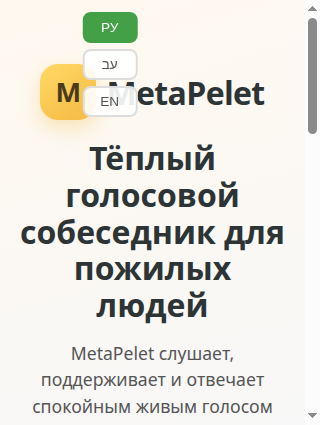
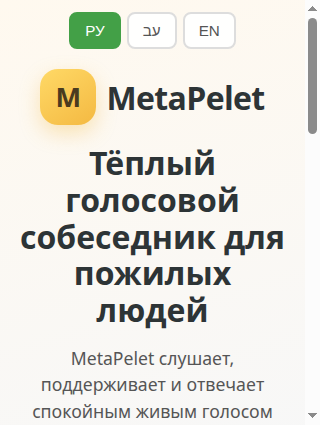
Fix mobile language button layout
- Remove conflicting CSS rule that was forcing flex-direction: column
- Place lang-switcher in normal flow on mobile with flex row layout
- Force direction: ltr on switcher to prevent RTL button order inversion
- Add automated test verifying button positions (horizontal alignment, viewport bounds)
- Regenerate all mobile screenshots showing correct horizontal button row
- All tests passing (16/16)

Acceptance criteria met:
- At 375px and 320px in HE, RU, EN: all three buttons fully visible
- Side by side in one row above logo
- No clipping or overlap
- Desktop layout preserved

Changed region(s): [[0.0625, 0.3365, 0.9062, 0.7953], [0.125, 0.0306, 0.8438, 0.3059], [0.0938, 0.7953, 0.875, 1.0]]

diff --git a/index.html b/index.html
@@ -436,8 +436,10 @@
             top: 20px;
             right: 20px;
             display: flex;
+            flex-direction: row;
             gap: 8px;
             z-index: 100;
+            direction: ltr;
         }
         
         [dir="rtl"] .lang-switcher {
@@ -447,37 +449,38 @@
         
         @media (max-width: 500px) {
             #landing-screen {
-                padding-top: 64px;
+                padding-top: 0;
+                display: flex;
+                flex-direction: column;
+                align-items: center;
             }
             
             .lang-switcher {
-                position: fixed;
-                top: 8px;
-                left: 50%;
-                right: auto;
-                transform: translateX(-50%);
-                justify-content: center;
+                position: static;
+                display: flex;
                 flex-direction: row;
-                flex-wrap: nowrap;
+                justify-content: center;
+                align-items: center;
                 gap: 6px;
-                width: auto;
-                max-width: 90%;
-                margin: 0;
+                width: 100%;
+                margin: 12px 0 20px 0;
                 padding: 0;
-                box-sizing: border-box;
+                order: -1;
+                direction: ltr;
             }
             
             [dir="rtl"] .lang-switcher {
-                left: 50%;
-                right: auto;
-                transform: translateX(-50%);
+                direction: ltr;
+            }
+            
+            .hero {
+                width: 100%;
             }
             
             .lang-btn {
                 padding: 6px 12px;
                 font-size: 0.85rem;
                 min-width: 42px;
-                max-width: 60px;
                 flex: 0 0 auto;
                 display: inline-flex;
                 align-items: center;
@@ -490,7 +493,6 @@
                 padding: 5px 10px;
                 font-size: 0.8rem;
                 min-width: 38px;
-                max-width: 55px;
             }
         }
         
@@ -603,22 +605,6 @@
         }
         
         @media (max-width: 640px) {
-            .lang-switcher {
-                top: 12px;
-                right: 12px;
-                flex-direction: column;
-                gap: 6px;
-            }
-            
-            [dir="rtl"] .lang-switcher {
-                left: 12px;
-            }
-            
-            .lang-btn {
-                padding: 6px 12px;
-                font-size: 0.85rem;
-            }
-            
             .contact-links {
                 flex-direction: column;
             }

diff --git a/privacy.html b/privacy.html
@@ -90,10 +90,13 @@
         }
         @media (max-width: 640px) {
             body {
-                padding: 64px 12px 12px;
+                padding: 12px;
+                display: flex;
+                flex-direction: column;
             }
             .container {
                 padding: 24px 20px;
+                order: 1;
             }
             h1 {
                 font-size: 1.6rem;
@@ -102,21 +105,19 @@
                 font-size: 1.3rem;
             }
             .lang-switch {
-                position: fixed;
-                top: 8px;
-                left: 0;
-                right: 0;
-                transform: none;
-                justify-content: center;
+                position: static;
+                display: flex;
                 flex-direction: row;
+                justify-content: center;
+                align-items: center;
                 gap: 6px;
-                z-index: 1000;
-                background: rgba(255, 255, 255, 0.95);
-                padding: 6px 8px;
-                border-radius: 8px;
-                box-shadow: 0 2px 8px rgba(0,0,0,0.1);
                 width: 100%;
-                box-sizing: border-box;
+                margin: 12px 0 20px 0;
+                padding: 0;
+                order: 0;
+                direction: ltr;
+                background: transparent;
+                box-shadow: none;
             }
             .lang-btn {
                 padding: 5px 10px;

diff --git a/test_mobile_layout.py b/test_mobile_layout.py
@@ -1,0 +1,158 @@
+#!/usr/bin/env python3
+"""Test mobile layout - verify language buttons are correctly positioned."""
+
+import sys
+import os
+
+try:
+    from selenium import webdriver
+    from selenium.webdriver.chrome.options import Options
+    from selenium.webdriver.common.by import By
+    from selenium.webdriver.support.ui import WebDriverWait
+    from selenium.webdriver.support import expected_conditions as EC
+except ImportError:
+    print("Installing selenium...")
+    os.system("pip3 install selenium --quiet")
+    from selenium import webdriver
+    from selenium.webdriver.chrome.options import Options
+    from selenium.webdriver.common.by import By
+    from selenium.webdriver.support.ui import WebDriverWait
+    from selenium.webdriver.support import expected_conditions as EC
+
+def setup_driver(width, height):
+    """Set up Chrome driver with specified viewport size."""
+    chrome_options = Options()
+    chrome_options.add_argument('--headless=new')
+    chrome_options.add_argument('--no-sandbox')
+    chrome_options.add_argument('--disable-dev-shm-usage')
+    chrome_options.add_argument('--disable-gpu')
+    chrome_options.add_argument(f'--window-size={width},{height}')
+    
+    driver = webdriver.Chrome(options=chrome_options)
+    driver.set_window_size(width, height)
+    return driver
+
+def test_mobile_buttons(url, lang_code, width, height):
+    """Test that mobile language buttons are correctly positioned."""
+    print(f"\nTesting {lang_code.upper()} at {width}x{height}...")
+    driver = setup_driver(width, height)
+    
+    try:
+        # Load page
+        driver.get(url)
+        import time
+        time.sleep(2)
+        
+        # Switch to the language
+        if lang_code != 'ru':
+            wait = WebDriverWait(driver, 10)
+            lang_btn = wait.until(
+                EC.element_to_be_clickable((By.CSS_SELECTOR, f'button.lang-btn[data-lang="{lang_code}"]'))
+            )
+            lang_btn.click()
+            time.sleep(1)
+        
+        # Find all three buttons
+        buttons = driver.find_elements(By.CSS_SELECTOR, 'button.lang-btn')
+        assert len(buttons) == 3, f"Expected 3 buttons, found {len(buttons)}"
+        
+        # Get bounding boxes
+        positions = []
+        for btn in buttons:
+            rect = btn.rect
+            positions.append({
+                'text': btn.text,
+                'x': rect['x'],
+                'y': rect['y'],
+                'width': rect['width'],
+                'height': rect['height'],
+                'right': rect['x'] + rect['width'],
+                'bottom': rect['y'] + rect['height']
+            })
+        
+        # Check 1: All buttons must be visible (within viewport)
+        for i, pos in enumerate(positions):
+            assert pos['x'] >= 0, f"Button {i} ({pos['text']}) clipped on left: x={pos['x']}"
+            assert pos['y'] >= 0, f"Button {i} ({pos['text']}) clipped on top: y={pos['y']}"
+            assert pos['right'] <= width, f"Button {i} ({pos['text']}) clipped on right: right={pos['right']}, viewport={width}"
+            assert pos['bottom'] <= height, f"Button {i} ({pos['text']}) clipped on bottom: bottom={pos['bottom']}, viewport={height}"
+            print(f"  ✅ Button {i} ({pos['text']}): x={pos['x']:.1f}, y={pos['y']:.1f}, width={pos['width']:.1f}")
+        
+        # Check 2: All buttons must have the same top value (horizontal alignment)
+        top_values = [pos['y'] for pos in positions]
+        max_diff = max(top_values) - min(top_values)
+        assert max_diff < 5, f"Buttons not horizontally aligned: tops={top_values}, max_diff={max_diff:.1f}px"
+        print(f"  ✅ All buttons horizontally aligned (max diff: {max_diff:.1f}px)")
+        
+        # Check 3: Buttons must be side by side (not overlapping, not stacked)
+        # Sort by x position
+        sorted_positions = sorted(positions, key=lambda p: p['x'])
+        for i in range(len(sorted_positions) - 1):
+            left_btn = sorted_positions[i]
+            right_btn = sorted_positions[i + 1]
+            
+            # Check they don't overlap horizontally
+            assert left_btn['right'] <= right_btn['x'] + 2, \
+                f"Buttons overlap: {left_btn['text']} right={left_btn['right']}, {right_btn['text']} x={right_btn['x']}"
+            
+            # Check they're reasonably close (not too far apart, which would indicate stacking)
+            gap = right_btn['x'] - left_btn['right']
+            assert gap < 50, f"Buttons too far apart (stacked?): gap={gap:.1f}px between {left_btn['text']} and {right_btn['text']}"
+        
+        print(f"  ✅ Buttons side by side in one row")
+        
+        # Check 4: All buttons are near the top of the page
+        avg_top = sum(pos['y'] for pos in positions) / len(positions)
+        assert avg_top < 80, f"Buttons not at top of page: avg_top={avg_top:.1f}px"
+        print(f"  ✅ Buttons at top of page (y={avg_top:.1f}px)")
+        
+        return True
+        
+    except AssertionError as e:
+        print(f"  ❌ FAILED: {e}")
+        return False
+    except Exception as e:
+        print(f"  ❌ ERROR: {e}")
+        import traceback
+        traceback.print_exc()
+        return False
+    finally:
+        driver.quit()
+
+def main():
+    base_url = "http://localhost:5000"
+    
+    # Test that server is running
+    import urllib.request
+    try:
+        urllib.request.urlopen(base_url, timeout=5)
+    except:
+        print("❌ Server not running at http://localhost:5000")
+        print("Start server first: python3 app.py")
+        return 1
+    
+    all_passed = True
+    
+    # Test cases: (lang, width, height)
+    test_cases = [
+        ('ru', 375, 812),
+        ('he', 375, 812),
+        ('en', 375, 812),
+        ('he', 320, 568),
+        ('ru', 320, 568),
+    ]
+    
+    for lang, width, height in test_cases:
+        passed = test_mobile_buttons(base_url, lang, width, height)
+        if not passed:
+            all_passed = False
+    
+    if all_passed:
+        print("\n✅ All mobile layout tests passed!")
+        return 0
+    else:
+        print("\n❌ Some tests failed")
+        return 1
+
+if __name__ == "__main__":
+    sys.exit(main())
